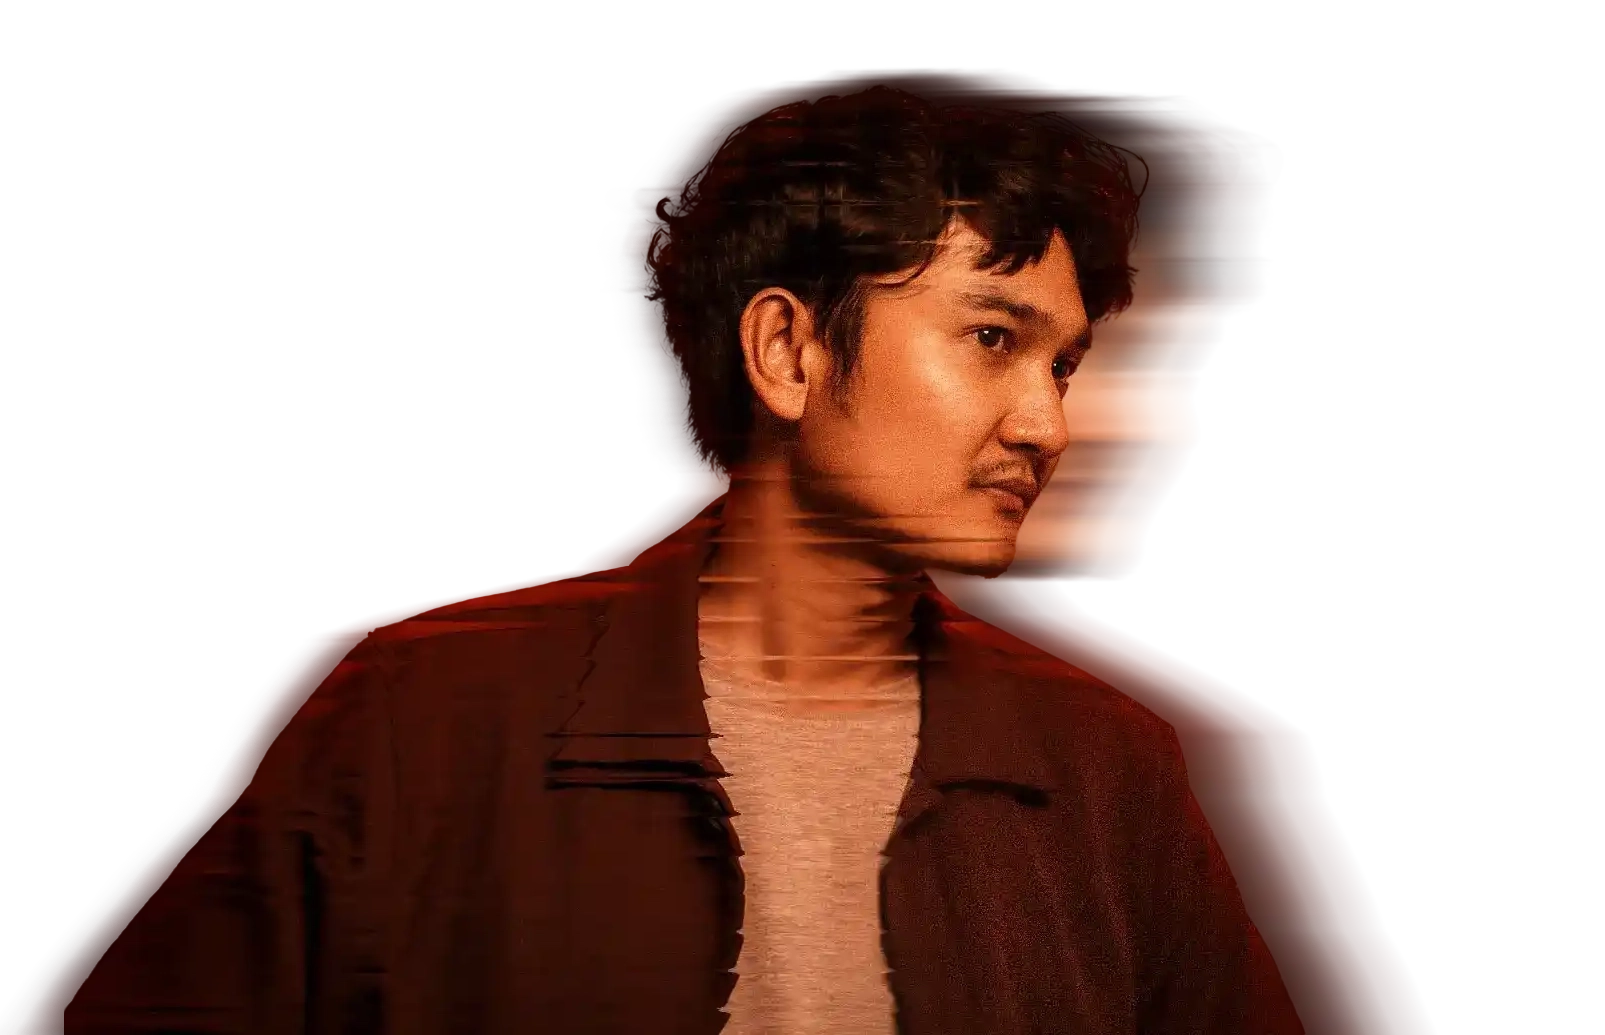
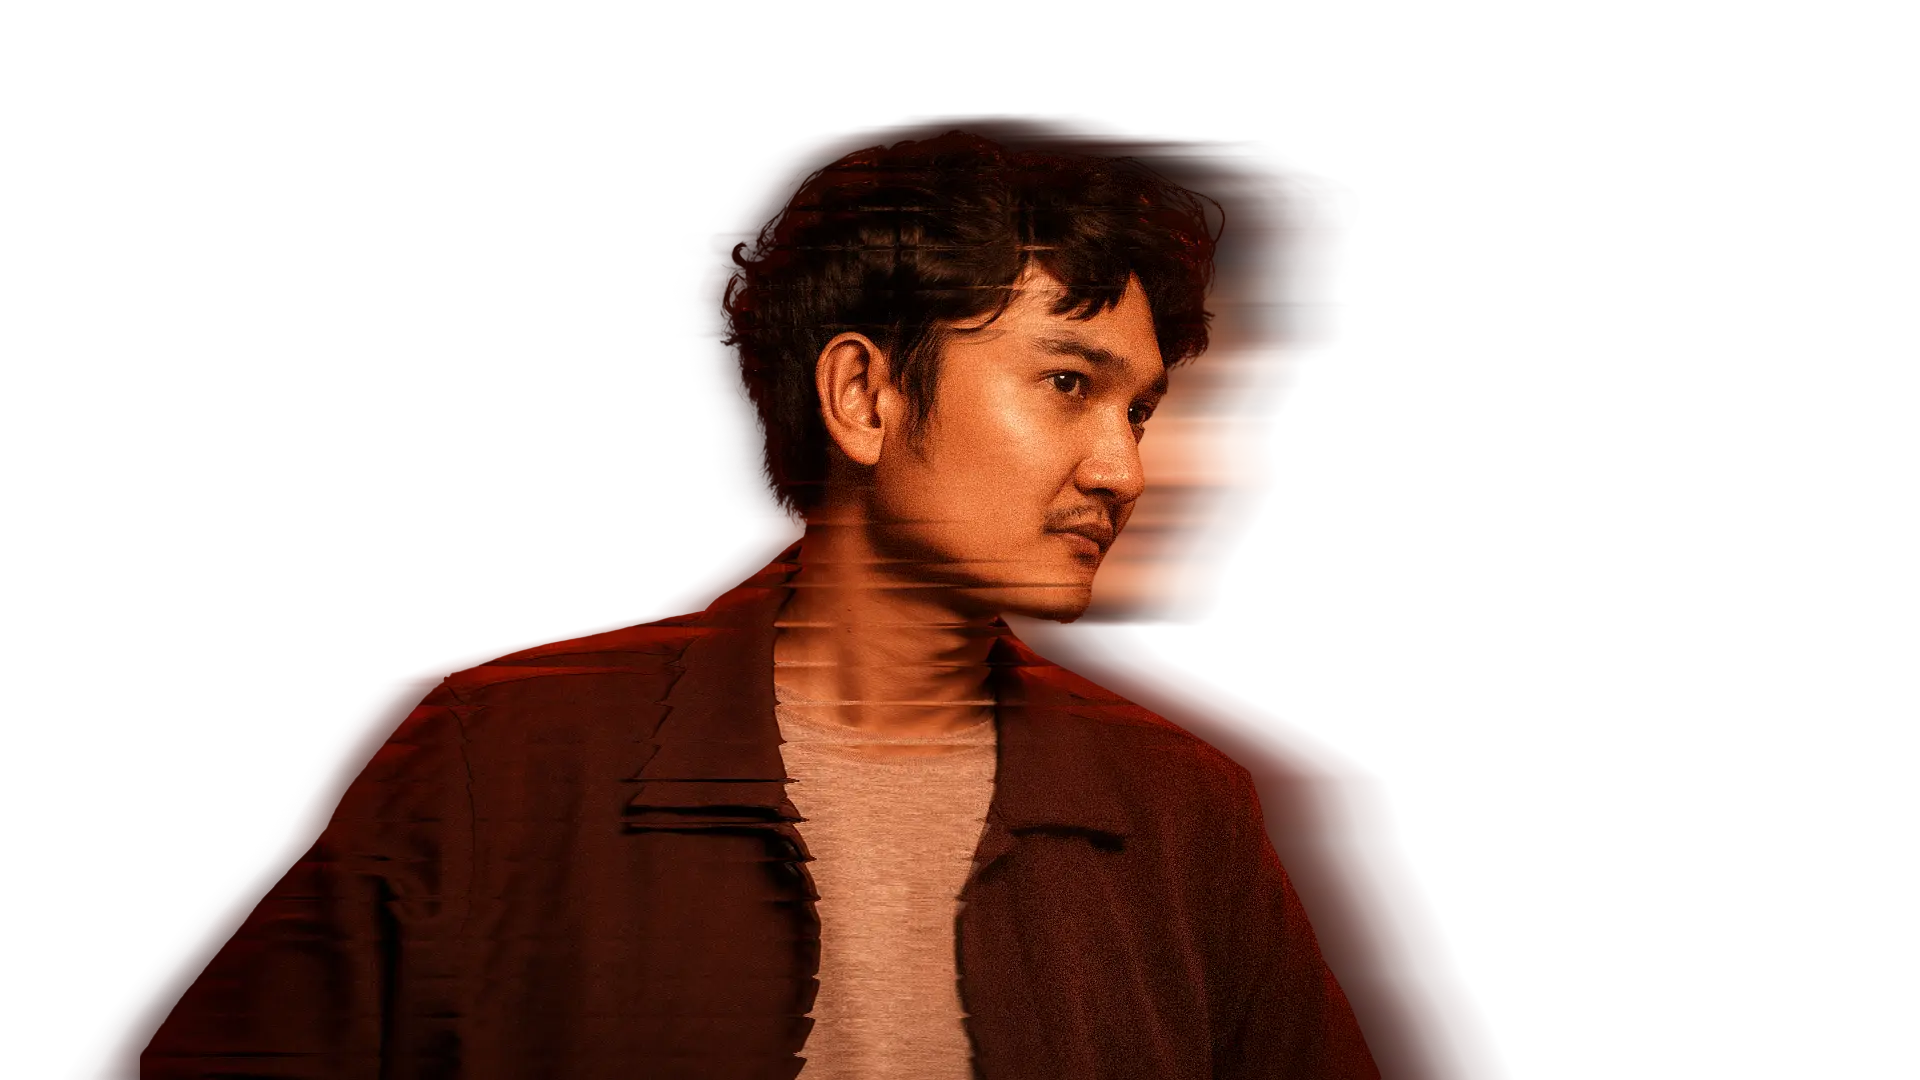
fix photo subject hero and resolution

Changed region(s): [[0.0, 0.0618, 0.9034, 1.0], [0.1869, 0.8039, 0.2181, 0.9585]]

diff --git a/src/app/globals.css b/src/app/globals.css
@@ -1,4 +1,3 @@
-
 :root {
     --orange: #D32800;
     --orange-light: #e03000;
@@ -2844,9 +2843,8 @@ footer {
         flex-direction: column;
         align-items: flex-start;
         justify-content: flex-start;
-        gap: 2.5svh;
+        gap: 4svh;
         overflow: hidden;
-        flex: 1;
     }
 
     .hero-content-left {
@@ -2888,7 +2886,7 @@ footer {
 
     .hero-cta-wrap {
         width: 100%;
-        margin-top: 1svh;
+        margin-top: 3svh;
         display: grid;
         grid-template-columns: minmax(0, 1fr);
         gap: 1.6svh;
@@ -2926,7 +2924,7 @@ footer {
         width: 132%;
         max-width: none;
         height: auto;
-        margin: -2svh 0 0 -16%;
+        margin: -35svh 0 0 -35%;
         filter: drop-shadow(0 34px 70px rgba(0, 0, 0, 0.62));
     }
 }

diff --git a/src/components/HeroSection.js b/src/components/HeroSection.js
@@ -189,9 +189,10 @@ export default function HeroSection() {
                 className="hero-subject-mobile"
                 src="/subject-hero-sec.webp"
                 alt="Regi Muhammar"
-                width={760}
-                height={940}
+                width={500}
+                height={618}
                 priority
+                quality={90}
                 style={{ opacity: 0 }}
             />
         </section>